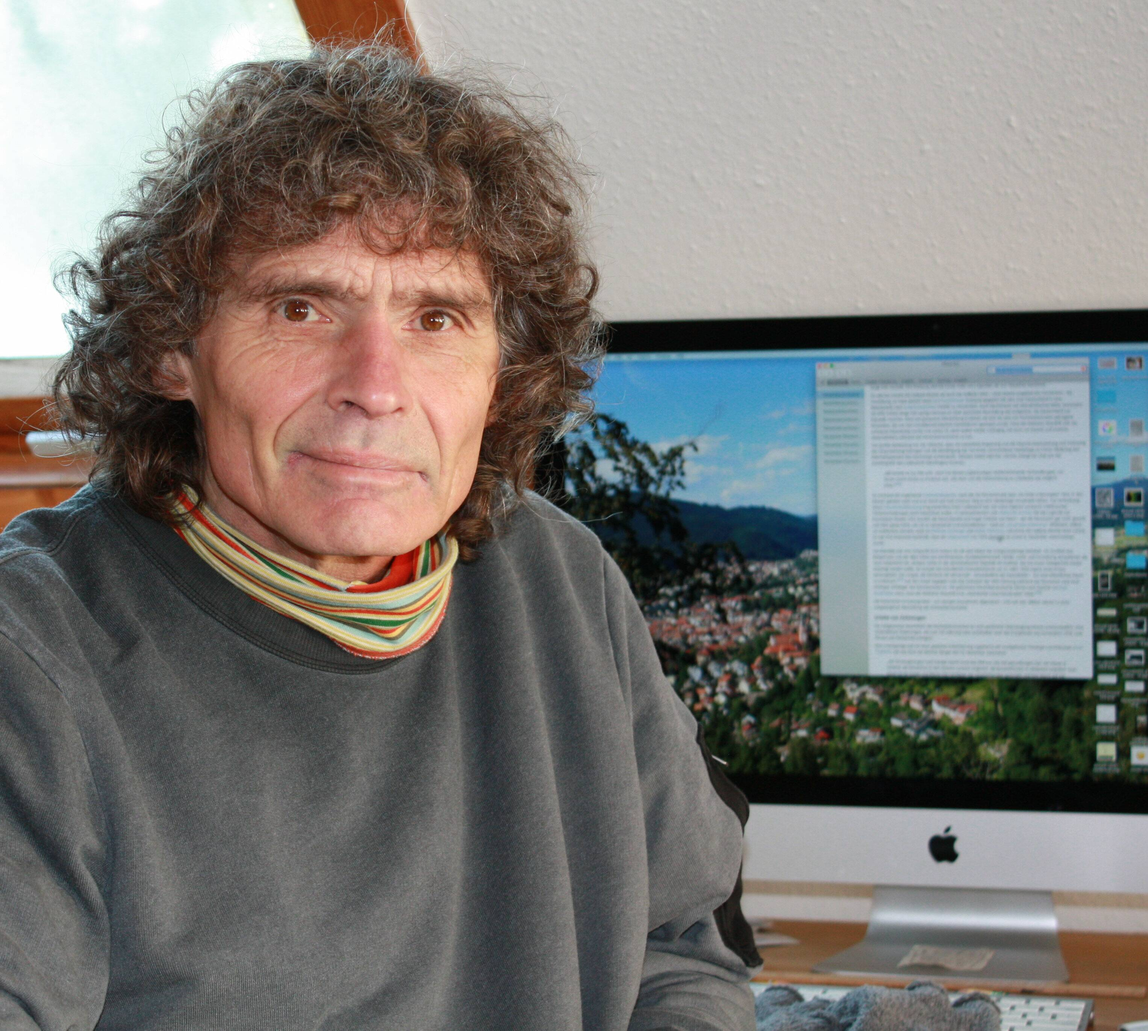
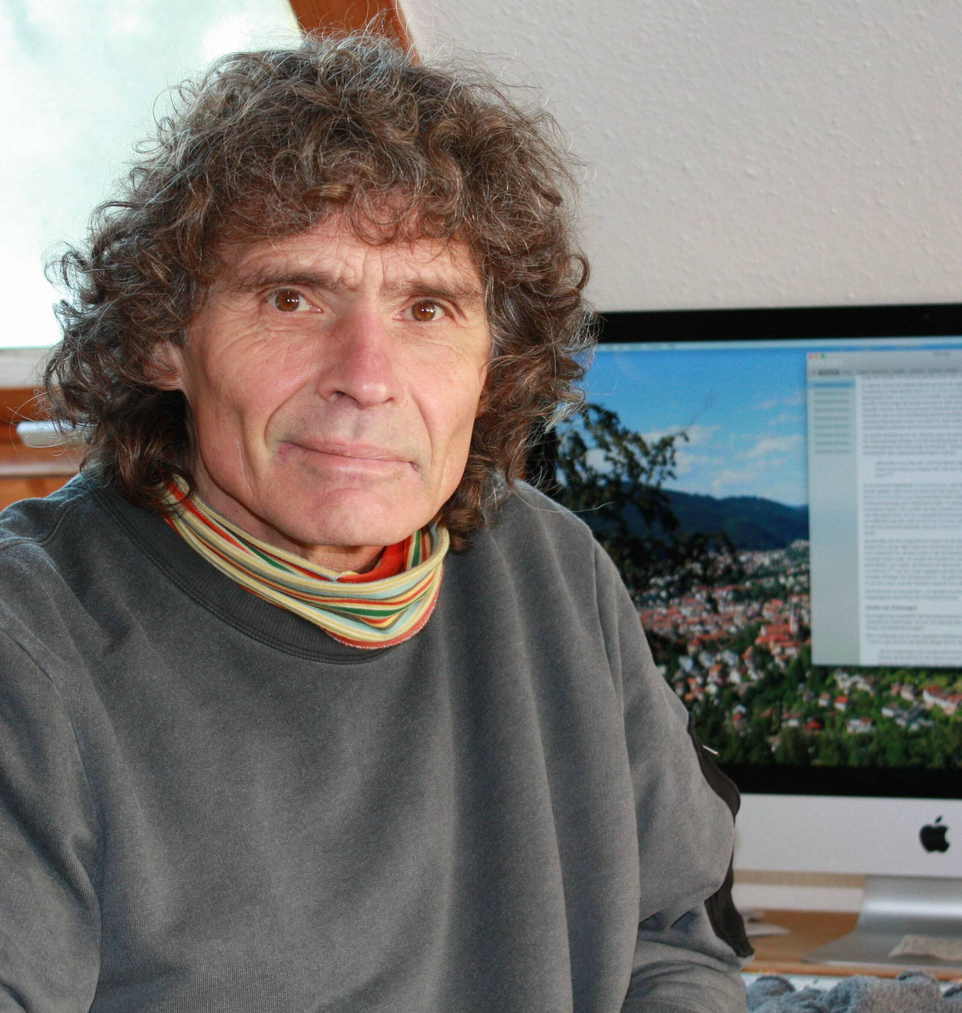
STYLED box and text of me image and size

diff --git a/ibsoftsys/styles/je-ibsoftsys.css b/ibsoftsys/styles/je-ibsoftsys.css
@@ -614,11 +614,15 @@ ul {
 
 .me-box {
     float: left;
+    
+    width: 11em;
 
     margin-top: 0.5em;
-    /* margin-bottom: 0.5em; */
-/*    margin-left: 1em;*/
-    margin-right: 1em;
+/*    margin-bottom: 8px;*/
+    margin-right: 1.5em;
+    
+/*    border-radius: 4px;*/
+/*    box-shadow: 0 8px 16px 0 rgb(0 0 0 / 20%);*/
 }
 
 /* Clear floats after the about-container [That is what people write and it works.] */
@@ -632,16 +636,24 @@ ul {
 .me-box img {
     width: 11em;
 
+/*    margin-top: 0.5em;*/
     margin-left: auto;
     margin-right: auto;
-    
     border-radius: 4px;
+    
+    box-shadow: 0 8px 16px 0 rgb(0 0 0 / 20%);
+    
+    
 }
 
 .me-box h4 {
-    font-size: 0.9em;
-
+    font-size: 0.8em;
+    
     font-weight: 400;
+
+    color: rgba(255, 255, 255, 0.9);       /* Color because text is within image. */
+    margin-top: -1.8em;
+    
 }
 
 .box {

diff --git a/ibsoftsys/index.html b/ibsoftsys/index.html
@@ -169,7 +169,7 @@
                     <img style="display: block;" src="media/images/me-jan2022-partial-min.jpg" alt="Jürgen"/>  <!-- width same as me-box! -->
 
                     <h4>D<span class="textsc">r.</span>-I<span class="textsc">ng. </span>J<span class="textsc">ürgen </span>E<span class="textsc">hret</span><br>
-                        <span style="color:#777;">E<span class="textsc">ngineer </span>& F<span class="textsc">ounder</span></span>
+<!--                        <span style="color:#777;">E<span class="textsc">ngineer </span>& F<span class="textsc">ounder</span></span>-->
                     </h4>
                 </div>
                 <div class="clear-floats-after-me">

diff --git a/ibsoftsys/en/index.html b/ibsoftsys/en/index.html
@@ -149,7 +149,7 @@
             <img style="display: block;" src="../media/images/me-jan2022-partial-min.jpg" alt="Jürgen"/>  <!-- width same as me-box! -->
 
             <h4>D<span class="textsc">r.</span>-I<span class="textsc">ng. </span>J<span class="textsc">ürgen </span>E<span class="textsc">hret</span><br>
-                <span style="color:#777;">E<span class="textsc">ngineer </span>& F<span class="textsc">ounder</span></span>
+<!--                <span style="color:#777;">E<span class="textsc">ngineer </span>& F<span class="textsc">ounder</span></span>-->
             </h4>
         </div>
         <div class="clear-floats-after-me">
